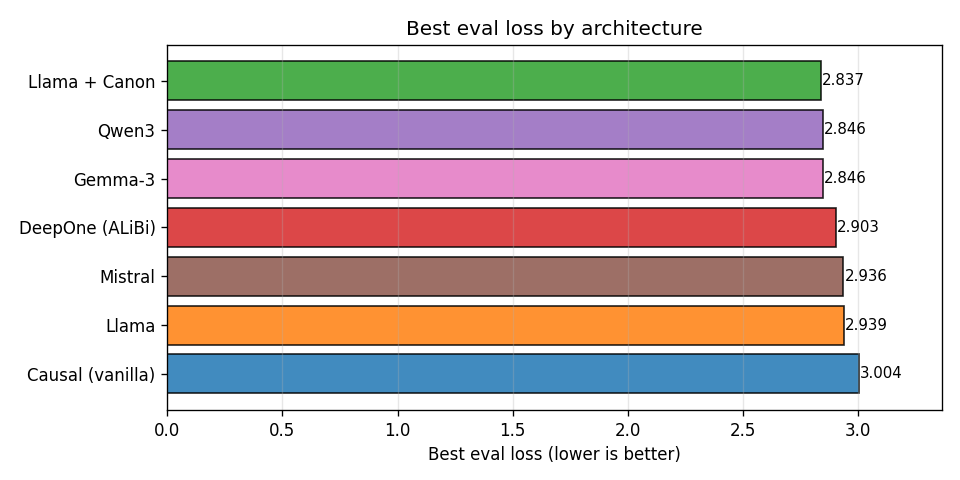
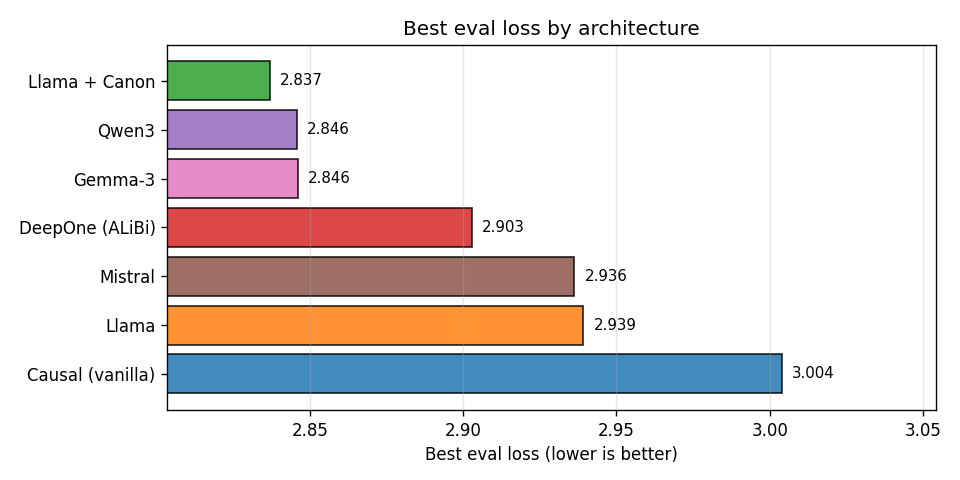
small_models: add end-game zoom plot + tighten bar-chart x-range
The full-scale loss curves overlap too much to read; add loss_endgame.png — a
train+eval view zoomed to >=600M tokens with the y-axis auto-scaled to the tail
(same idea as the diloco example's end-game panels), where the final ordering
and the WSD anneal are legible. Also zoom the "best eval loss" bar chart's
x-axis to the spread of the values instead of starting at 0, so the ~0.17-nat
differences between architectures are visible.

diff --git a/examples/tiny_experiments/small_models/assets/generate_plots.py b/examples/tiny_experiments/small_models/assets/generate_plots.py
@@ -121,6 +121,41 @@ def main():
     fig.savefig(out1, dpi=120)
     print("wrote", out1)
 
+    # --- Figure 1b: end-game zoom (>= ZOOM_TOKENS_M) ------------------------
+    # At full scale the architectures pile on top of each other; zooming the
+    # tail (and letting matplotlib auto-scale y to it) makes the final ordering
+    # and the WSD anneal legible.
+    ZOOM_TOKENS_M = 600.0
+
+    def tail(xs, ys):
+        pairs = [(x, y) for x, y in zip(xs, ys) if x >= ZOOM_TOKENS_M]
+        return ([x for x, _ in pairs], [y for _, y in pairs])
+
+    figz, (zx_tr, zx_ev) = plt.subplots(1, 2, figsize=(13, 5.2))
+    for mdir, (label, recs, color) in data.items():
+        tx, ty = tail(*series(recs, "loss"))
+        zx_tr.plot(tx, ty, "-", color=color, lw=1.4, label=label, alpha=0.9)
+        ex, ey = tail(*series(recs, "eval_loss"))
+        zx_ev.plot(
+            ex, ey, "-", color=color, lw=1.6, marker="o", ms=3, label=label, alpha=0.9
+        )
+
+    zx_tr.set_title(f"Training loss — end-game (>= {ZOOM_TOKENS_M:.0f}M tokens)")
+    zx_ev.set_title(f"Eval loss — end-game (>= {ZOOM_TOKENS_M:.0f}M tokens)")
+    for ax in (zx_tr, zx_ev):
+        ax.set_xlabel("Tokens (millions)")
+        ax.grid(True, alpha=0.3)
+    zx_tr.set_ylabel("Cross-entropy loss")
+    zx_ev.legend(fontsize=9, loc="upper right")
+    figz.suptitle(
+        "Small Models — end-game detail (y-axis auto-scaled to the tail)",
+        fontsize=12,
+    )
+    figz.tight_layout()
+    out1b = os.path.join(HERE, "loss_endgame.png")
+    figz.savefig(out1b, dpi=120)
+    print("wrote", out1b)
+
     # --- Figure 2: best eval loss bar chart --------------------------------
     bars = []
     for mdir, (label, recs, color) in data.items():
@@ -143,9 +178,14 @@ def main():
     ax.invert_yaxis()
     ax.set_xlabel("Best eval loss (lower is better)")
     ax.set_title("Best eval loss by architecture")
+    # Zoom the loss axis to the spread of the values (a 0-based axis hides the
+    # differences). Start just below the best and leave headroom for labels.
+    lo = min(b[1] for b in bars)
+    hi = max(b[1] for b in bars)
+    span = hi - lo
+    ax.set_xlim(lo - 0.20 * span, hi + 0.30 * span)
     for i, b in enumerate(bars):
-        ax.text(b[1] + 0.005, i, f"{b[1]:.3f}", va="center", fontsize=9)
-    ax.set_xlim(0, max(b[1] for b in bars) * 1.12)
+        ax.text(b[1] + 0.02 * span, i, f"{b[1]:.3f}", va="center", fontsize=9)
     ax.grid(True, axis="x", alpha=0.3)
     fig2.tight_layout()
     out2 = os.path.join(HERE, "final_loss_bar.png")

diff --git a/examples/tiny_experiments/small_models/README.md b/examples/tiny_experiments/small_models/README.md
@@ -122,6 +122,13 @@ size, vocabulary, data, or tuning.
 
 ![Training and eval loss vs. tokens, all architectures](assets/loss_comparison.png)
 
+At full scale the architectures pile on top of each other; the end-game view
+below zooms to the final stretch (≥600M tokens, y-axis auto-scaled) where the
+ordering separates and the WSD anneal pulls every curve down over the last 100M
+tokens:
+
+![End-game detail: loss over the final stretch](assets/loss_endgame.png)
+
 ![Best eval loss by architecture](assets/final_loss_bar.png)
 
 | Model | Best eval | Final train | Avg MFU | Notes |
